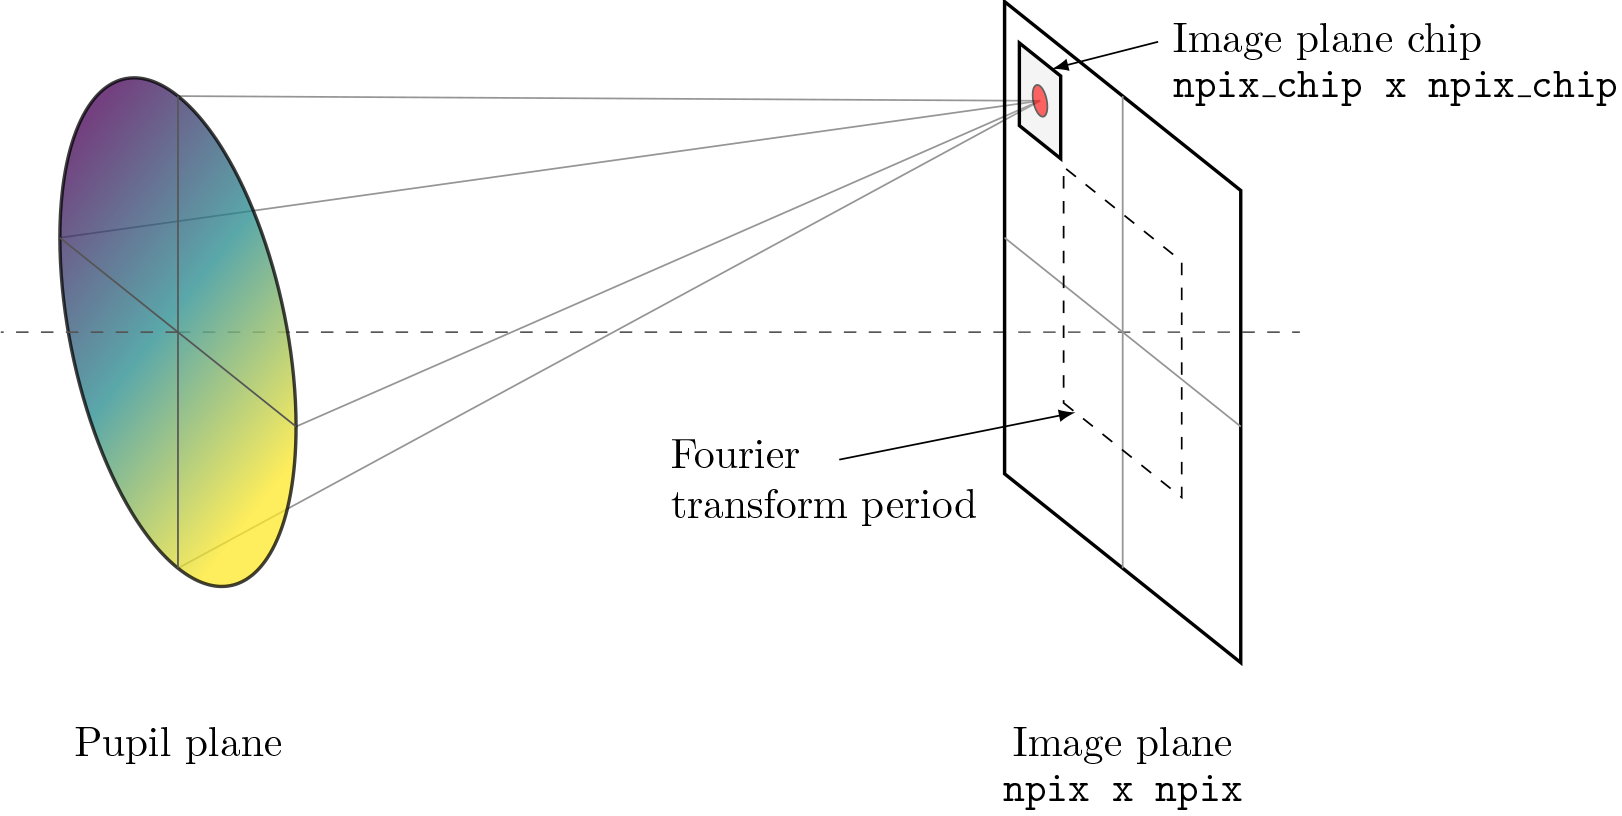
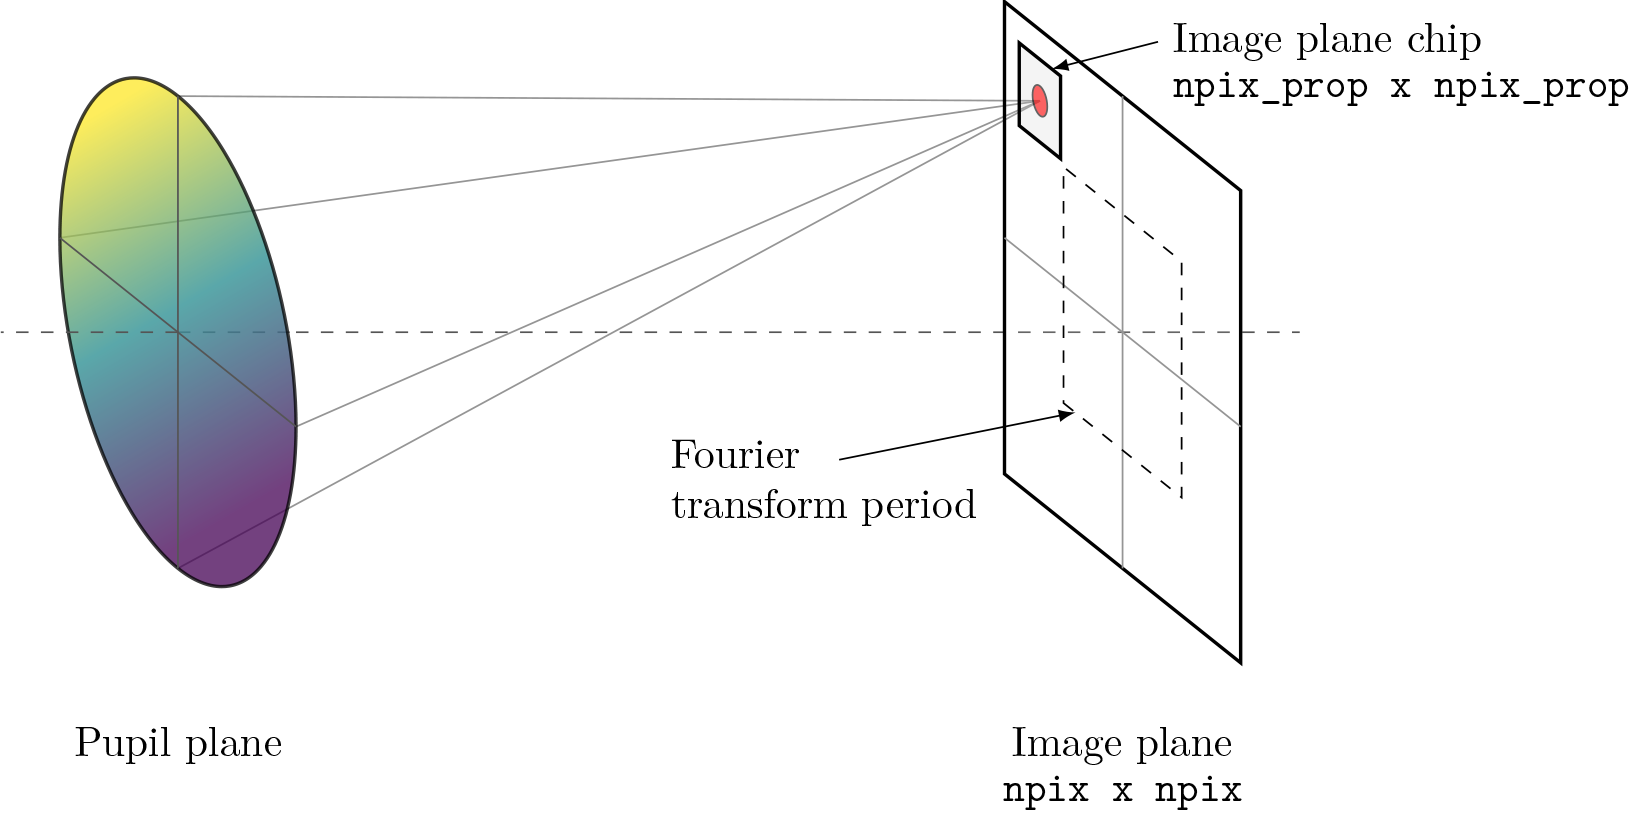
Update docs, tests for v0.7.0

diff --git a/docs/_static/css/lentil.css b/docs/_static/css/lentil.css
@@ -43,6 +43,10 @@ img {
     margin-bottom: 1.125rem;
 }
 
+img.logo {
+    margin-bottom: 0;
+}
+
 :target:before{
     content:"";
     display:block;

diff --git a/docs/_img/python/tilt_images.py b/docs/_img/python/tilt_images.py
@@ -12,36 +12,39 @@ y_tilt = 8e-6 * lentil.zernike(amp, 2)  # +y tilt
 py = lentil.Pupil(focal_length=10, pixelscale=1 / 240, amplitude=amp, phase=y_tilt)
 wy = lentil.Wavefront(650e-9)
 wy *= py
-wy = wy.propagate_image(pixelscale=5e-6, npix=256, oversample=5)
+wy = wy.propagate_image(pixelscale=5e-6, npix=200, oversample=5)
 
 px = lentil.Pupil(focal_length=10, pixelscale=1 / 240, amplitude=amp, phase=x_tilt)
 wx = lentil.Wavefront(650e-9)
 wx *= px
-wx = wx.propagate_image(pixelscale=5e-6, npix=256, oversample=5)
+wx = wx.propagate_image(pixelscale=5e-6, npix=200, oversample=5)
 
 plt.subplot(2, 2, 1)
 plt.imshow(x_tilt, origin='lower')
-plt.title('Pupil plane [$+R_x$]')
-plt.xticks(np.linspace(0, 256, 5), labels=np.linspace(-1, 1, 5))
-plt.yticks(np.linspace(0, 256, 5), labels=np.linspace(-1, 1, 5))
-# plt.grid()
+plt.title('Pupil plane ($+R_x$)')
+plt.xticks(np.linspace(0, 256, 5), labels=np.linspace(-0.5, 0.5, 5))
+plt.yticks(np.linspace(0, 256, 5), labels=np.linspace(-0.5, 0.5, 5))
+plt.xlabel('[m]')
 
 plt.subplot(2, 2, 2)
 plt.imshow(y_tilt, origin='lower')
-plt.title('Pupil plane [$+R_y$]')
-plt.xticks(np.linspace(0, 256, 5), labels=np.linspace(-1, 1, 5))
-plt.yticks(np.linspace(0, 256, 5), labels=np.linspace(-1, 1, 5))
-# plt.grid()
+plt.title('Pupil plane ($+R_y$)')
+plt.xticks(np.linspace(0, 256, 5), labels=np.linspace(-0.5, 0.5, 5))
+plt.yticks(np.linspace(0, 256, 5), labels=np.linspace(-0.5, 0.5, 5))
+plt.xlabel('[m]')
 
 plt.subplot(2, 2, 3)
 plt.imshow(wx.intensity ** 0.2, origin='lower')
-plt.title('Image plane [$+R_x$]')
-plt.xticks(np.linspace(0, 256 * 5, 5), labels=np.linspace(-1, 1, 5))
-plt.yticks(np.linspace(0, 256 * 5, 5), labels=np.linspace(-1, 1, 5))
+plt.title('Image plane ($+R_x$)')
+plt.xticks(np.linspace(0, 200 * 5, 5), labels=np.linspace(-1, 1, 5))
+plt.yticks(np.linspace(0, 200 * 5, 5), labels=np.linspace(-1, 1, 5))
+plt.xlabel('[mm]')
+
 plt.subplot(2, 2, 4)
 plt.imshow(wy.intensity ** 0.2, origin='lower')
-plt.title('Image plane [$+R_y$]')
-plt.xticks(np.linspace(0, 256 * 5, 5), labels=np.linspace(-1, 1, 5))
-plt.yticks(np.linspace(0, 256 * 5, 5), labels=np.linspace(-1, 1, 5))
+plt.title('Image plane ($+R_y$)')
+plt.xticks(np.linspace(0, 200 * 5, 5), labels=np.linspace(-1, 1, 5))
+plt.yticks(np.linspace(0, 200 * 5, 5), labels=np.linspace(-1, 1, 5))
+plt.xlabel('[mm]')
 
 plt.tight_layout()

diff --git a/docs/_img/python/focus_images.py b/docs/_img/python/focus_images.py
@@ -8,35 +8,39 @@ mpl.rcParams['figure.figsize'] = (4, 4)
 amp = np.zeros((256, 256))
 amp += lentil.circlemask((256, 256), 64, shift=(32, 8))
 amp -= lentil.circlemask((256, 256), 40, shift=(32, 8))
-amp[:,0:128+8] = 0
-amp[32:225,104-16:128-16] = 1
+amp[:, 0:128+8] = 0
+amp[32:225, 104-16:128-16] = 1
 amp[96:120, 128-16:144-8] = 1
 amp[201:225, 128-16:144-8] = 1
 
-focus = lentil.zernike(mask=np.ones((256,256)), index=4)
+focus = lentil.zernike(mask=np.ones((256, 256)), index=4)
 
 pupil_neg = lentil.Pupil(amplitude=amp, pixelscale=1/240, focal_length=10)
 pupil_neg.phase = -6e-6 * focus
 w_neg = lentil.Wavefront(650e-9)
 w_neg *= pupil_neg
-w_neg = w_neg.propagate_image(pixelscale=5e-6, npix=256, oversample=2)
+w_neg = w_neg.propagate_image(pixelscale=5e-6, npix=200, oversample=2)
 
 pupil_pos = lentil.Pupil(amplitude=amp, pixelscale=1/240, focal_length=10)
 pupil_pos.phase = 6e-6 * focus
 w_pos = lentil.Wavefront(650e-9)
 w_pos *= pupil_pos
-w_pos = w_pos.propagate_image(pixelscale=5e-6, npix=256, oversample=2)
+w_pos = w_pos.propagate_image(pixelscale=5e-6, npix=200, oversample=2)
 
-plt.subplot(121)
-plt.imshow(w_neg.intensity, origin='lower')
-plt.title('Negative focus')
-plt.xticks(np.linspace(0, 512, 5), labels=np.linspace(-1, 1, 5))
-plt.yticks(np.linspace(0, 512, 5), labels=np.linspace(-1, 1, 5))
+fig, axs = plt.subplots(1, 2)
 
-plt.subplot(122)
-plt.imshow(w_pos.intensity, origin='lower')
-plt.title('Positive focus')
-plt.xticks(np.linspace(0, 512, 5), labels=np.linspace(-1, 1, 5))
-plt.yticks(np.linspace(0, 512, 5), labels=np.linspace(-1, 1, 5))
+ax1 = axs[0]
+ax1.imshow(w_pos.intensity, origin='lower')
+ax1.set_title('Image plane (+focus)')
+ax1.set_xticks(np.linspace(0, 400, 5), labels=np.linspace(-1, 1, 5))
+ax1.set_yticks(np.linspace(0, 400, 5), labels=np.linspace(-1, 1, 5))
+ax1.set_xlabel('[mm]')
+
+ax2 = axs[1]
+ax2.imshow(w_neg.intensity, origin='lower')
+ax2.set_title('Image plane (-focus)')
+ax2.set_xticks(np.linspace(0, 400, 5), labels=np.linspace(-1, 1, 5))
+ax2.set_yticks(np.linspace(0, 400, 5), labels=np.linspace(-1, 1, 5))
+ax2.set_xlabel('[mm]')
 
 plt.tight_layout()

diff --git a/lentil/plane.py b/lentil/plane.py
@@ -362,7 +362,7 @@ class Plane:
                                             mode='constant', unitary=False)
             else:
                 plane.mask = np.asarray([lentil.rescale(mask, scale=scale, shape=None, mask=None,
-                                                        order=0, mode=constant, unitary=False)
+                                                        order=0, mode='constant', unitary=False)
                                          for mask in plane.mask])
             # mask[mask < np.finfo(mask.dtype).eps] = 0
             plane.mask[np.nonzero(plane.mask)] = 1
@@ -462,7 +462,7 @@ class Plane:
                 phase = self.phase if self.phase.size == 1 else self.phase[s]
 
                 # construct complex phasor
-                phasor = Field(data=amp*np.exp(-2*np.pi*1j*phase/wavefront.wavelength),
+                phasor = Field(data=amp*np.exp(2*np.pi*1j*phase/wavefront.wavelength),
                                pixelscale=self.pixelscale,
                                offset=lentil.helper.slice_offset(s, self.shape),
                                tilt=[self.tilt[n]] if self.tilt else [])
@@ -870,8 +870,8 @@ class Tilt(Plane):
             Updated x and y shift terms
 
         """
-        x = xs + (z * self.x)
-        y = ys + (z * self.y)
+        x = xs - (z * self.x)
+        y = ys - (z * self.y)
         return x, y
 
 

diff --git a/lentil/fourier.py b/lentil/fourier.py
@@ -3,7 +3,13 @@ import numpy as np
 
 
 def dft2(f, alpha, npix=None, shift=(0, 0), offset=(0, 0), unitary=True, out=None):
-    """Compute the 2-dimensional discrete Fourier Transform.
+    r"""Compute the 2-dimensional discrete Fourier Transform.
+
+    The DFT is defined in one dimension as
+
+    .. math::
+
+        A_k = \sum_{m=0}^{n-1} a_n \exp \left(-2\pi i\frac{mk}{n}\right) \hspace{3em} k=0, \dots, n-1
 
     This function allows independent control over input shape, output shape,
     and output sampling by implementing the matrix triple product algorithm
@@ -119,7 +125,13 @@ def _dft2_coords(m, n, M, N):
 
 
 def idft2(F, alpha, npix=None, shift=(0,0), unitary=True, out=None):
-    """Compute the 2-dimensional inverse discrete Fourier Transform.
+    r"""Compute the 2-dimensional inverse discrete Fourier Transform.
+
+    The IDFT is defined in one dimension as
+
+    .. math::
+
+        a_m = \frac{1}{n}\sum_{k=0}^{n-1} A_k \exp \left(2\pi i\frac{mk}{n}\right) \hspace{3em} m=0, \dots, n-1
 
     This function allows independent control over input shape, output shape,
     and output sampling by implementing the matrix triple product algorithm

diff --git a/tests/test_propagate.py b/tests/test_propagate.py
@@ -230,7 +230,7 @@ def test_propagate_tilt_phase_analytic():
     analytic_shift = ((pupil_tilt/pupil.diameter)*pupil.focal_length/pixelscale) * oversample * 4
 
     # Analytic shift is in terms of (x, y) but we really want (r, c) to match the centroid
-    analytic_shift = -analytic_shift[1], analytic_shift[0]
+    analytic_shift = analytic_shift[1], -analytic_shift[0]
 
     assert np.all((np.abs(shift - analytic_shift)/oversample) < 0.2)
 
@@ -260,7 +260,7 @@ def test_propagate_tilt_angle_analytic():
     analytic_shift = ((pupil_tilt/pupil.diameter)*pupil.focal_length/pixelscale) * oversample * 4
 
     # Analytic shift is in terms of (x, y) but we really want (r, c) to match the centroid
-    analytic_shift = -analytic_shift[1], analytic_shift[0]
+    analytic_shift = analytic_shift[1], -analytic_shift[0]
 
     assert np.all((np.abs(shift - analytic_shift)/oversample) < 0.2)
 

diff --git a/docs/_img/tikz/propagate_tilt_angle.tex b/docs/_img/tikz/propagate_tilt_angle.tex
@@ -28,7 +28,7 @@
     \draw[color=gray] (0,2,0) -- (-1.4,1.4,\zimg);
 
     \draw[thick, shade, shading=axis, left color=viridisblue, right color=viridisyellow, middle color=viridisgreen,
-    shading angle=30, opacity=0.75] (0,0) circle [radius=2];
+    shading angle=210, opacity=0.75] (0,0) circle [radius=2];
     \draw[color=darkgray] (-2,0,0) -- (2,0,0);
     \draw[color=darkgray] (0,-2,0) -- (0,2,0);
 
@@ -45,7 +45,7 @@
 
     \draw[latex-] (-1.2,1.75,\zimg) -- (-1.4,1.9,9);
     \node [align=center, right] at (-1.4,1.9,9) {Image plane chip};
-    \node [align=center, right] at (-1.4,1.5,9) {\texttt{npix\_chip x npix\_chip}};
+    \node [align=center, right] at (-1.4,1.5,9) {\texttt{npix\_prop x npix\_prop}};
 
 
     \draw[dashed] (-1,-1,\zimg) -- (1,-1,\zimg) -- (1,1,\zimg) -- (-1,1,\zimg) -- cycle;

diff --git a/docs/_img/tikz/focus_direction.tex b/docs/_img/tikz/focus_direction.tex
@@ -33,7 +33,7 @@
     \draw [densely dotted] (0.5,-1.74) -- (5,0);
     
     \draw [latex-] (0.5,-1.8) -- (1,-2.5);
-    \node [below] at (1,-2.5) {$+\mbox{OPD}$};
+    \node [below] at (1,-2.5) {$-\mbox{Focus}$};
     
     \draw [latex-] (5,-0.1) -- (5,-0.8);
     \node [below] at (5,-0.8) {$-\Delta z$};
@@ -48,7 +48,7 @@
     \draw [dashed] (-0.5,-1.74) -- (7,0);
 
     \draw [latex-] (-0.5,-1.8) -- (-1,-2.5);
-    \node [below] at (-1,-2.5) {$-\mbox{OPD}$};
+    \node [below] at (-1,-2.5) {$+\mbox{Focus}$};
     
     \draw [latex-] (7,-0.1) -- (7,-0.8);
     \node [below] at (7,-0.8) {$+\Delta z$};

diff --git a/docs/_img/tikz/coordinate_system_2d.tex b/docs/_img/tikz/coordinate_system_2d.tex
@@ -1,0 +1,19 @@
+\documentclass{standalone}
+\usepackage{tikz}
+\usepackage{textcomp}
+
+\begin{document}
+
+\begin{tikzpicture}
+
+\draw [thick, fill=gray, fill opacity=0.1] (0,0) -- (3,0) -- (3,3) -- (0,3) -- cycle;
+\draw[-latex] (-0.25,1.5) -- (3.5,1.5);
+\node [right] at (3.5, 1.5) {$+x$};
+\draw[-latex] (1.5,-0.25) -- (1.5,3.5);
+\node [above] at (1.5, 3.5) {$+y$};
+\draw[fill=black] (1.5,1.5) circle [radius=0.03];
+\draw (1.5,1.5) circle [radius=0.1];
+\node [above right] at (1.5, 1.5) {$+z$};
+
+\end{tikzpicture}
+\end{document}

diff --git a/docs/_img/tikz/propagate_tilt_phase.tex b/docs/_img/tikz/propagate_tilt_phase.tex
@@ -28,7 +28,7 @@
     \draw[color=gray] (0,2,0) -- (-0.5,0.5,\zimg);
 
     \draw[thick, shade, shading=axis, left color=viridisblue, right color=viridisyellow, middle color=viridisgreen,
-    shading angle=30, opacity=0.75] (0,0) circle [radius=2];
+    shading angle=210, opacity=0.75] (0,0) circle [radius=2];
     \draw[color=darkgray] (-2,0,0) -- (2,0,0);
     \draw[color=darkgray] (0,-2,0) -- (0,2,0);
 

diff --git a/docs/_img/tikz/propagate_tilt_phase_wrap.tex b/docs/_img/tikz/propagate_tilt_phase_wrap.tex
@@ -28,7 +28,7 @@
     \draw[color=gray] (0,2,0) -- (-1,0.5,\zimg);
 
     \draw[thick, shade, shading=axis, left color=viridisblue, right color=viridisyellow, middle color=viridisgreen,
-    shading angle=30, opacity=0.75] (0,0) circle [radius=2];
+    shading angle=210, opacity=0.75] (0,0) circle [radius=2];
     \draw[color=darkgray] (-2,0,0) -- (2,0,0);
     \draw[color=darkgray] (0,-2,0) -- (0,2,0);
 

diff --git a/docs/_img/python/npix_prop.py b/docs/_img/python/npix_prop.py
@@ -14,7 +14,7 @@ w1 = w1.propagate_image(pixelscale=5e-6, npix=128, npix_prop=128, oversample=5)
 
 w2 = lentil.Wavefront(wavelength=500e-9)
 w2 *= pupil
-w2 = w2.propagate_image(pixelscale=5e-6, npix=128, npix_prop=48, oversample=5)
+w2 = w2.propagate_image(pixelscale=5e-6, npix=128, npix_prop=40, oversample=5)
 
 plt.subplot(1, 2, 1)
 plt.imshow(w1.intensity, origin='lower')
